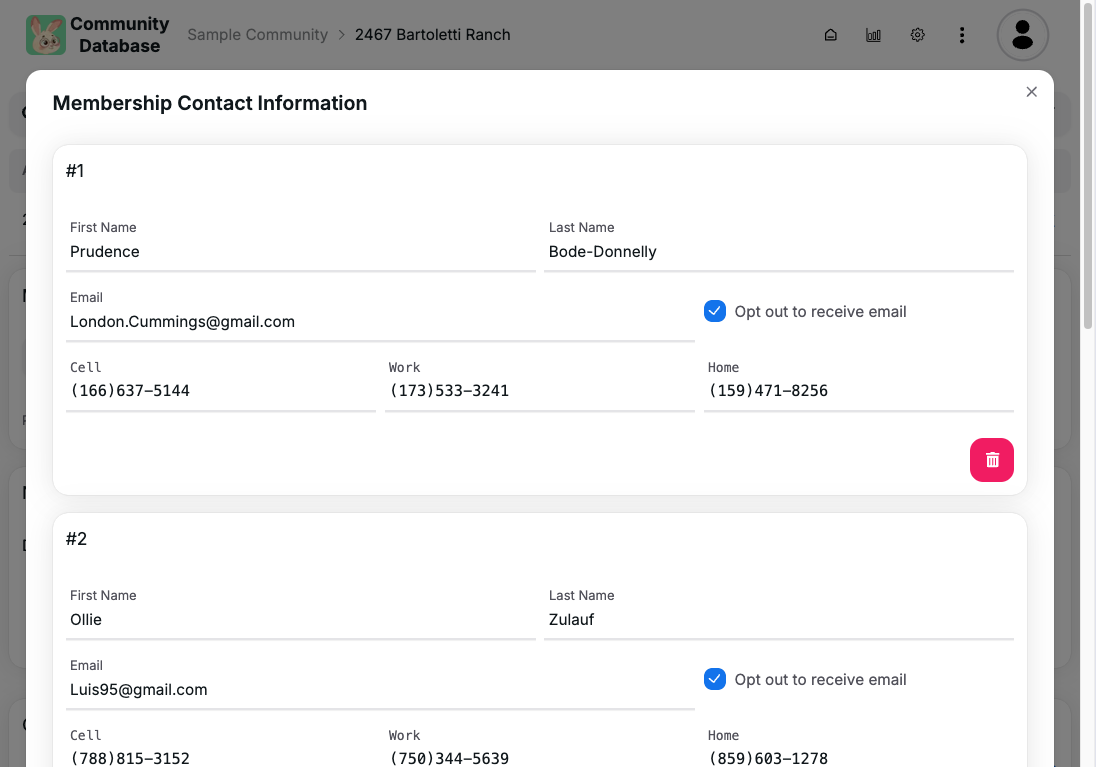
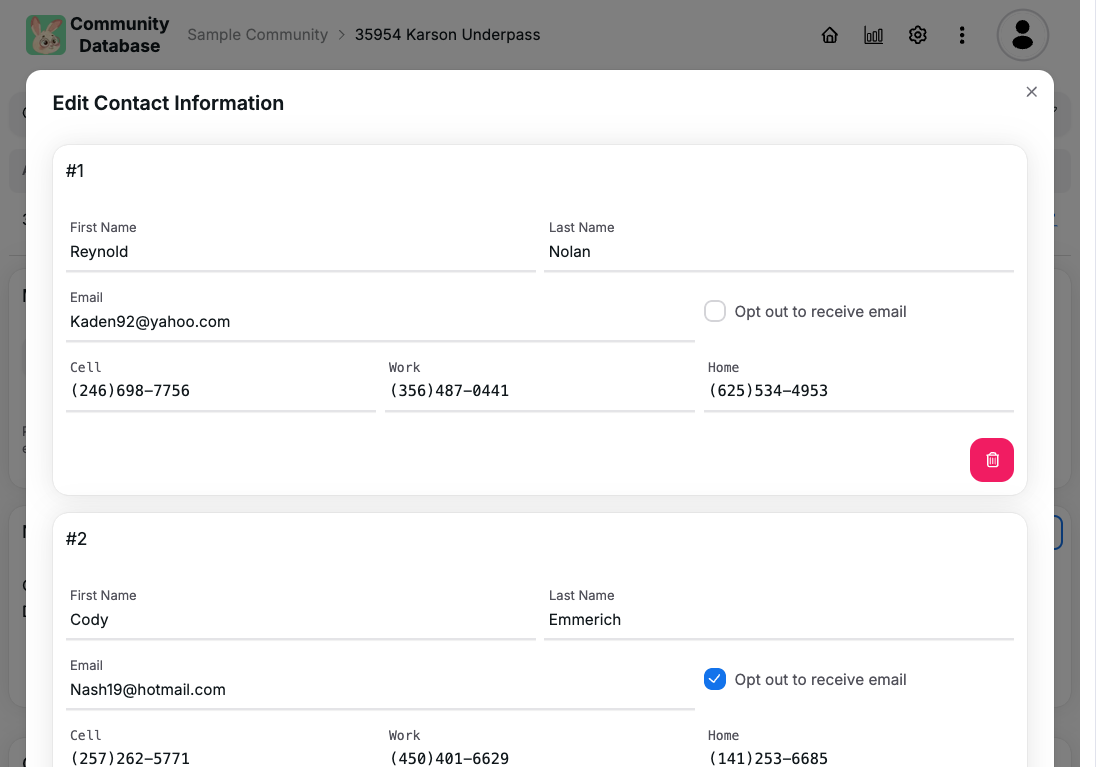
test: run jest and read .env.test

diff --git a/src/app/graphql/schema/property/__test__/batch-property-modify-add-gps.spec.ts b/src/app/graphql/schema/property/__test__/batch-property-modify-add-gps.spec.ts
@@ -18,6 +18,16 @@ const communityInfoDocument = graphql(/* GraphQL */ `
   }
 `);
 
+const addGeoapifyApikeyDocument = graphql(/* GraphQL */ `
+  mutation BatchPropertyModifyAddGpsSpec_AddGeoapifyKey(
+    $input: CommunityModifyInput!
+  ) {
+    communityModify(input: $input) {
+      id
+    }
+  }
+`);
+
 const filteredPropertyListDocument = graphql(/* GraphQL */ `
   query BatchPropertyModifyAddGpsSpec_FilteredPropertyList(
     $id: String!
@@ -69,6 +79,21 @@ describe('BatchPropertyModify - Add GPS', () => {
       document: communityInfoDocument,
     });
     targetCommunity = result.data?.userCurrent.accessList[0].community;
+    // Add Geoapify API key for testing purpose
+    await testUtil.graphql.executeSingle({
+      document: addGeoapifyApikeyDocument,
+      variables: {
+        input: {
+          self: {
+            id: targetCommunity!.id,
+            updatedAt: targetCommunity!.updatedAt,
+          },
+          geoapifySetting: {
+            apiKey: 'test-geoapify-api',
+          },
+        },
+      },
+    });
   });
 
   afterEach(async () => {

diff --git a/src/app/community/[communityId]/layout-util/community-context.tsx b/src/app/community/[communityId]/layout-util/community-context.tsx
@@ -1,5 +1,6 @@
 'use client';
 import React from 'react';
+import { actions, useDispatch, useSelector } from '~/custom-hooks/redux';
 import * as GQL from '~/graphql/generated/graphql';
 import { getCurrentYear } from '~/lib/date-util';
 import { insertIf } from '~/lib/insert-if';
@@ -84,6 +85,17 @@ function createSelectionItems(
 }
 
 export function useCommunityContext(community: CommunityEntry) {
+  const dispatch = useDispatch();
+  const { yearSelected } = useSelector((state) => state.ui);
+
+  React.useEffect(() => {
+    if (community && yearSelected == null) {
+      // By default, show current year (unless it's not available)
+      const defaultYear = Math.min(getCurrentYear(), community.maxYear);
+      dispatch(actions.ui.setYearSelected(defaultYear));
+    }
+  }, [community, dispatch, yearSelected]);
+
   const stateValue = React.useMemo<CommunityState>(() => {
     const eventList = community.eventList ?? [];
     const ticketList = community.ticketList ?? [];

diff --git a/cypress/e2e/landing-screenshot.cy.ts b/cypress/e2e/landing-screenshot.cy.ts
@@ -25,7 +25,7 @@ class ScreenShot {
       .click();
 
     // Wait for property detail page
-    cy.findByLabelText('Membership Info For Year', { timeout });
+    cy.findByText('Membership Status', { timeout });
     this.takeScreenshot('property-detail');
   }
 
@@ -39,8 +39,8 @@ class ScreenShot {
 
   occupantEditor() {
     cy.clickHeaderMoreMenu();
-    cy.clickRoleMenuItem('Edit Member Details');
-    cy.findByRole('dialog').contains('Membership Contact Information');
+    cy.clickRoleMenuItem('Edit Contact Information');
+    cy.findByRole('dialog').contains('Edit Contact Information');
     this.takeScreenshot('occupant-editor');
     cy.clickButton('Cancel');
   }

diff --git a/jest.config.ts b/jest.config.ts
@@ -1,14 +1,14 @@
+import dotenv from 'dotenv';
 import type { Config } from 'jest';
 import nextJest from 'next/jest';
 
 const createJestConfig = nextJest({});
 
+// Process .env.test files
+dotenv.config({ path: './.env.test' });
+
 const customJestConfig: Config = {
-  setupFiles: [
-    // Process .env files
-    'dotenv/config',
-    '<rootDir>/.jest/set-env-vars.ts',
-  ],
+  setupFiles: ['<rootDir>/.jest/set-env-vars.ts'],
   globalSetup: '<rootDir>/.jest/global-setup.ts',
   globalTeardown: '<rootDir>/.jest/global-teardown.ts',
   setupFilesAfterEnv: [

diff --git a/src/app/community/[communityId]/dashboard/member-count-chart/index.tsx b/src/app/community/[communityId]/dashboard/member-count-chart/index.tsx
@@ -44,13 +44,6 @@ export const MemberCountChart: React.FC<Props> = ({
   useGraphqlErrorHandler(result);
   const community = result.data?.communityFromId;
 
-  React.useEffect(() => {
-    if (community && selectedYear == null) {
-      // By default, show current year (unless it's not available)
-      onYearSelect?.(Math.min(getCurrentYear(), community.maxYear));
-    }
-  }, [community, selectedYear, onYearSelect]);
-
   return (
     <Card className={cn(className)}>
       <CardHeader className="items-start gap-2">
